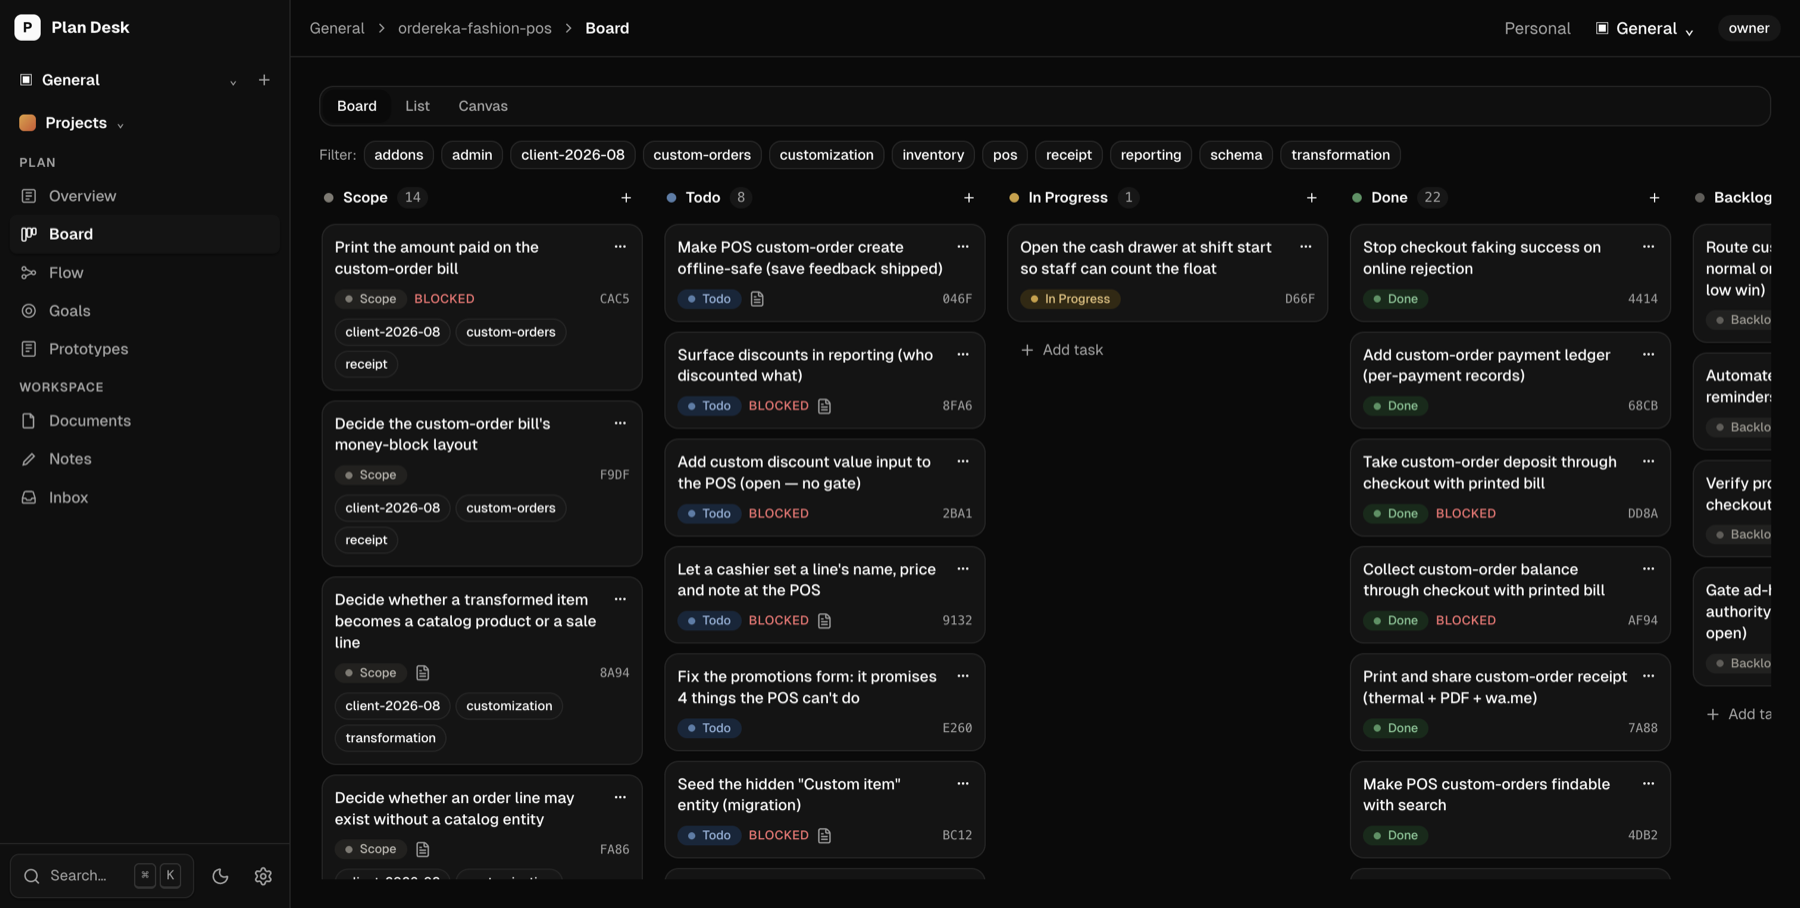
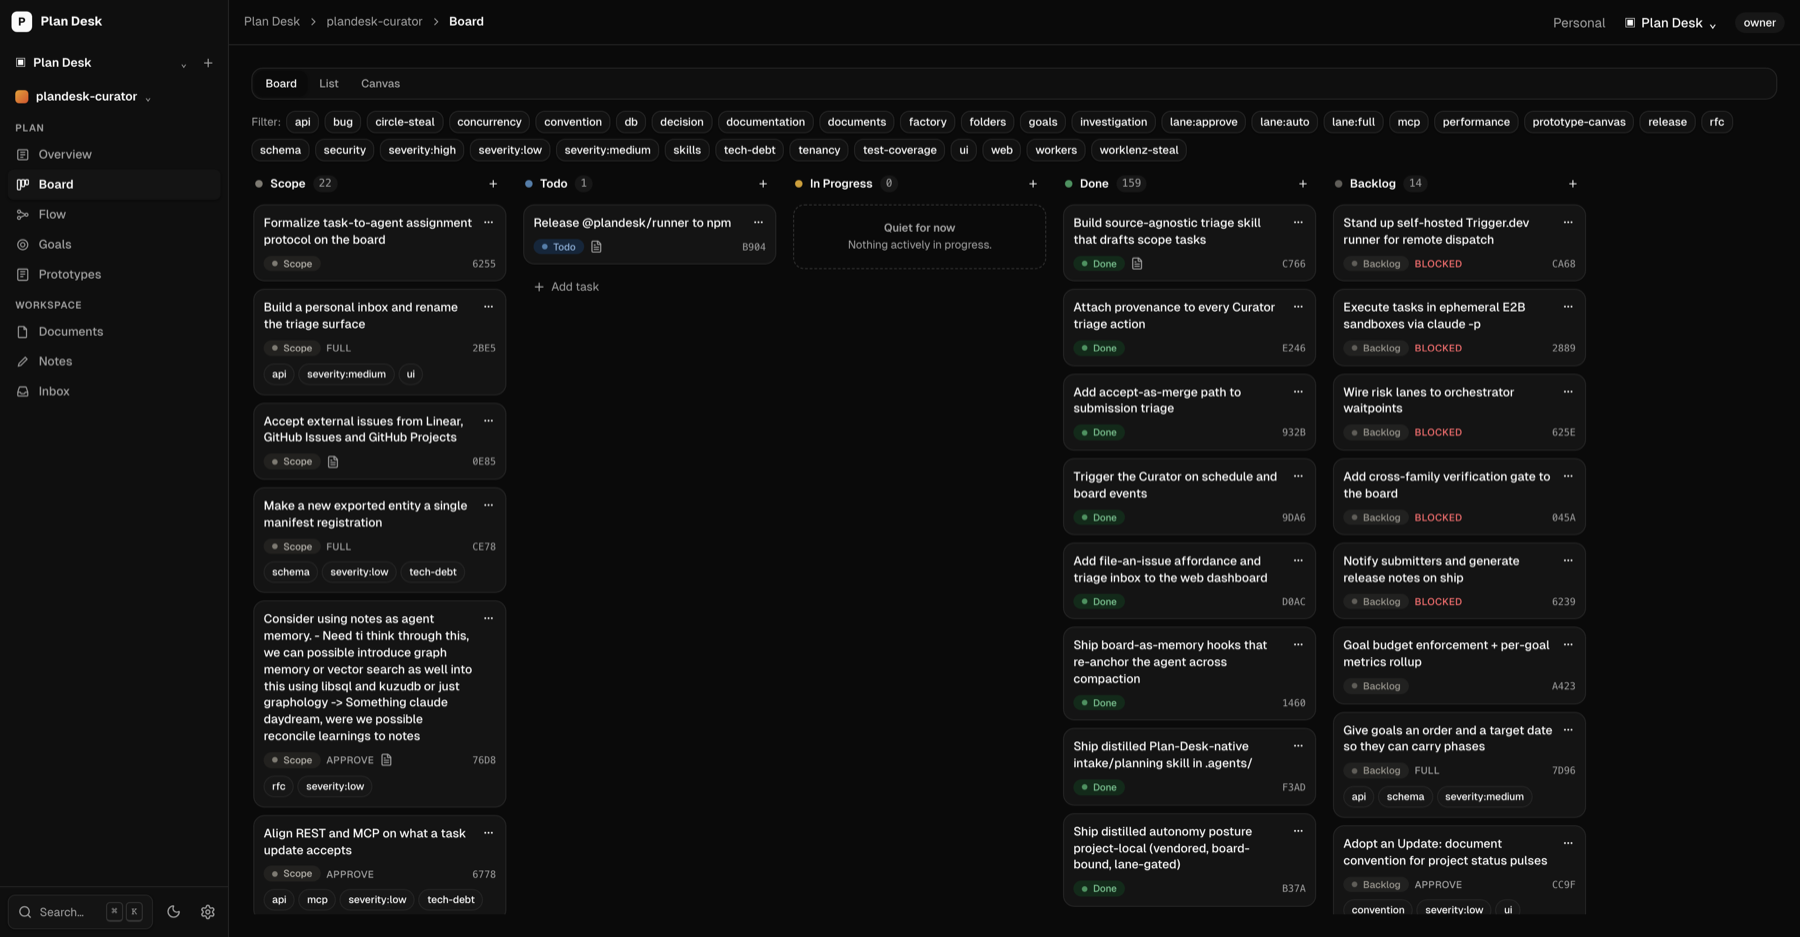
docs: reshoot the product screenshots on the Plan Desk board
The board, flow, goals and documents shots came from a client project and
carried its name, its tasks and its specs. Retake all four on the Plan Desk
board itself, at a wider viewport so every board column fits one frame.

The goals shot now shows a gate command rather than an acceptance
checklist, so the README caption and the landing page copy name the
verification surface instead. The prototype shot is unchanged — no bound
project has a prototype to shoot.

diff --git a/README.md b/README.md
@@ -24,7 +24,7 @@ tools over the same data. One plan, two readers, one audit trail.
 </div>
 
 <p align="center">
-  <img src=".github/assets/board.png" alt="A Plan Desk board with tasks in Scope, Todo, In Progress and Done" width="100%">
+  <img src=".github/assets/board.png" alt="A Plan Desk board with tasks in Scope, Todo, In Progress, Done and Backlog" width="100%">
 </p>
 
 <p align="center">
@@ -90,8 +90,8 @@ _It runs on your machine. It stays on your machine unless you say otherwise._
 
 |                                                                                                         |                                                                                                                 |
 | :-----------------------------------------------------------------------------------------------------: | :-------------------------------------------------------------------------------------------------------------: |
-| <img src=".github/assets/flow.png" alt="Flow canvas with dependency edges and an agent activity panel"> | <img src=".github/assets/goals.png" alt="A goal with its acceptance checklist, stop condition and constraints"> |
-|              **Flow** — dependencies as a graph, with every agent run recorded beside it.               |             **Goals** — a contract with an acceptance checklist, a stop condition, and boundaries.              |
+| <img src=".github/assets/flow.png" alt="Flow canvas with dependency edges and an agent activity panel"> | <img src=".github/assets/goals.png" alt="A goal with its verification surface, stop condition and constraints"> |
+|              **Flow** — dependencies as a graph, with every agent run recorded beside it.               |              **Goals** — a contract with a verification surface, a stop condition, and boundaries.              |
 |      <img src=".github/assets/documents.png" alt="A design document with an open review comment">       |       <img src=".github/assets/prototypes.png" alt="Prototype screens on a canvas with review comments">        |
 |           **Documents** — the spec on the node, with review comments from people and agents.            |                      **Prototypes** — HTML screens, linked into a flow, open for comment.                       |
 
